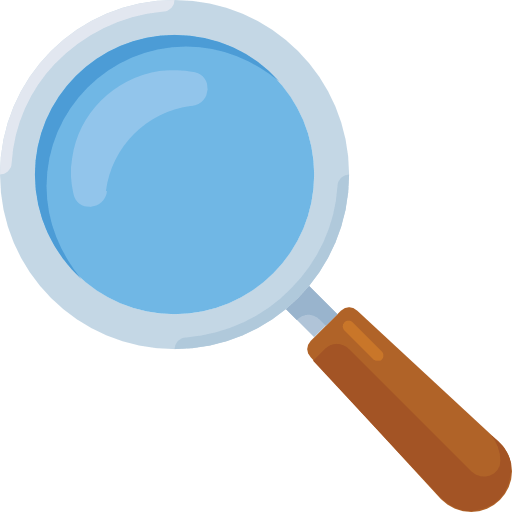
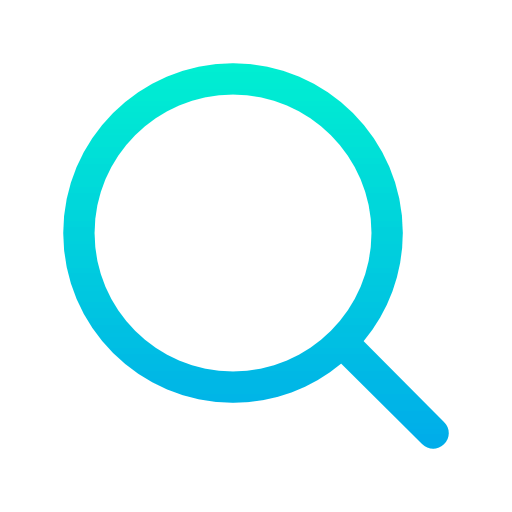
design changes

diff --git a/src/App.js b/src/App.js
@@ -7,10 +7,11 @@ import SearchBar from "./components/SearchBar";
 function App() {
   const [repos, setRepos] = useState([]);
   const [user, setUser] = useState({});
+  const [userSearch, setUserSearch] = useState("");
 
   const getGitHubData = () => {
     axios
-      .get("https://api.github.com/users/brijenmakwana/repos")
+      .get(`https://api.github.com/users/${userSearch}/repos`)
       .then(function (response) {
         // handle success
         console.log(response.data);
@@ -27,7 +28,7 @@ function App() {
 
   const getUser = () => {
     axios
-      .get("https://api.github.com/users/brijenmakwana")
+      .get(`https://api.github.com/users/${userSearch}`)
       .then(function (response) {
         // handle success
         console.log(response.data);
@@ -42,39 +43,51 @@ function App() {
       });
   };
 
-  useEffect(() => {
-    // getUser();
-    // getGitHubData();
-  }, []);
+  const submitUserName = () => {
+    getUser();
+    getGitHubData();
+  };
 
   return (
     <div className="App">
-      <SearchBar />
-      <div className="github-user-container">
-        <img
-          src={user.avatar_url}
-          alt="user pic"
-          className="user-profile-image"
-        />
-        <h1 className="user-name">{user.name}</h1>
-        <h2 className="user-git-handle">{user.login}</h2>
-        <p className="user-bio">{user.bio}</p>
-        <div className="total-repos-container">
-          <span className="total-repos-text">{user.public_repos} repos</span>
-        </div>
-      </div>
-      <div className="repo-cards">
-        {repos &&
-          repos.map((item, index) => (
-            <RepoCard
-              repoName={item.name}
-              repoDescription={item.description}
-              repoCreatedDate={item.created_at}
-              repoLastUpdatedDate={item.pushed_at}
-              key={index}
+      <SearchBar
+        setUserSearch={setUserSearch}
+        userSearch={userSearch}
+        submitUserName={submitUserName}
+      />
+      {user && userSearch && (
+        <>
+          <div className="github-user-container">
+            <img
+              src={user.avatar_url}
+              alt="user pic"
+              className="user-profile-image"
             />
-          ))}
-      </div>
+            <h1 className="user-name">{user.name}</h1>
+            <h2 className="user-git-handle">@{user.login}</h2>
+            <p className="user-bio">{user.bio}</p>
+            <div className="total-repos-container">
+              <span className="total-repos-text">
+                {user.public_repos} repos
+              </span>
+            </div>
+          </div>
+          <div className="repo-cards">
+            {repos &&
+              repos.map((item, index) => (
+                <RepoCard
+                  repoName={item.name}
+                  repoDescription={item.description}
+                  repoCreatedDate={item.created_at}
+                  repoLastUpdatedDate={item.pushed_at}
+                  html_url={item.html_url}
+                  topics={item.topics}
+                  key={index}
+                />
+              ))}
+          </div>
+        </>
+      )}
     </div>
   );
 }

diff --git a/src/components/RepoCard.js b/src/components/RepoCard.js
@@ -3,29 +3,48 @@ import "./RepoCard.css";
 import moment from "moment";
 
 const RepoCard = (props) => {
-  const { repoName, repoDescription, repoCreatedDate, repoLastUpdatedDate } =
-    props;
+  const {
+    repoName,
+    repoDescription,
+    repoCreatedDate,
+    repoLastUpdatedDate,
+    html_url,
+    topics,
+  } = props;
   return (
-    <div className="card-container">
-      {/* total days spent */}
-      <div className="days-spent-container">
-        <span className="days-spent-text">
-          {moment(repoLastUpdatedDate).diff(moment(repoCreatedDate), "days") +
-            1}{" "}
-          days
+    <a href={html_url} target="blank">
+      <div className="card-container">
+        {/* total days spent */}
+
+        <div className="days-spent-container">
+          <span className="days-spent-text">
+            {moment(repoLastUpdatedDate).diff(moment(repoCreatedDate), "days") +
+              1}{" "}
+            days
+          </span>
+        </div>
+        {/* repo name */}
+        <h2 className="repo-name">{repoName}</h2>
+        {/* repo description */}
+        <p className="repo-description">
+          {repoDescription ?? "no description available"}
+        </p>
+        {/* repo created date */}
+        <span className="date-created">
+          {moment(repoCreatedDate).format("ll")}
         </span>
+        <div className="topics-container">
+          <h2 className="topics-heading">topics</h2>
+          <ul className="list">
+            {topics.map((topic, index) => (
+              <li key={index} className="topic-name">
+                {topic}
+              </li>
+            ))}
+          </ul>
+        </div>
       </div>
-      {/* repo name */}
-      <h2 className="repo-name">{repoName}</h2>
-      {/* repo description */}
-      <p className="repo-description">
-        {repoDescription ?? "no description available"}
-      </p>
-      {/* repo created date */}
-      <span className="date-created">
-        {moment(repoCreatedDate).format("ll")}
-      </span>
-    </div>
+    </a>
   );
 };
 

diff --git a/src/components/RepoCard.css b/src/components/RepoCard.css
@@ -1,37 +1,49 @@
+a {
+  text-decoration: none;
+  margin: 20px 30px;
+  height: fit-content;
+}
+
 .card-container {
   background-color: #fff;
-  max-width: 350px;
-  height: fit-content;
+  width: 350px;
   padding: 20px;
-  border-radius: 15px;
-  margin: 20px 30px;
+  border-radius: 10px;
+  transition: all 0.2s ease-in-out;
+}
+
+.card-container:hover {
+  transform: scale(1.1);
+  z-index: 2;
 }
 
 .repo-name {
   font-size: 25px;
   text-transform: capitalize;
   margin-top: 15px;
+  color: #80489c;
 }
 
 .repo-description {
   font-size: 18px;
   margin-top: 10px;
+  color: #000;
 }
 
 .date-created {
-  margin-top: 10px;
+  margin-top: 20px;
   display: block;
   margin-left: auto;
   font-weight: 600;
   font-size: 18px;
-  background-color: #fff;
+  background-color: #ffb3c6;
   border-radius: 15px;
   width: fit-content;
   padding: 5px 10px;
 }
 
 .days-spent-container {
-  background-color: aquamarine;
+  background-color: #06d6a0;
   position: absolute;
   padding: 10px;
   margin-top: -40px;
@@ -43,5 +55,23 @@
   font-size: 18px;
   font-weight: 600;
   text-transform: capitalize;
-  color: #434242;
+  color: #fff;
+}
+
+.topics-container {
+  display: none;
+}
+
+.topics-heading {
+  text-transform: capitalize;
+}
+
+.list {
+  list-style-type: disc;
+  margin-left: 10px;
+  margin-top: 10px;
+}
+
+.topic-name {
+  font-size: 18px;
 }

diff --git a/src/components/SearchBar.js b/src/components/SearchBar.js
@@ -1,19 +1,28 @@
 import React from "react";
 import "./SearchBar.css";
 
-export default function SearchBar() {
+export default function SearchBar(props) {
+  const { userSearch, setUserSearch, submitUserName } = props;
+
   return (
     <div className="searchbar-container">
-      <img
-        src={require("../assets/images/github.png")}
-        alt="github"
-        className="searchbar-image"
+      <input
+        type="text"
+        placeholder="GitHub username"
+        className="input"
+        value={userSearch}
+        onChange={(e) => setUserSearch(e.target.value)}
+        // onSubmit={(e) => {
+        //   e.preventDefault();
+        //   submitUserName();
+        // }}
       />
-      <input type="text" placeholder="GitHub username" className="input" />
+
       <img
         src={require("../assets/images/search.png")}
         alt="search"
-        className="searchbar-image"
+        className="searchbar-image search-btn"
+        onClick={submitUserName}
       />
     </div>
   );

diff --git a/src/App.css b/src/App.css
@@ -5,7 +5,11 @@
 }
 
 body {
-  background-image: linear-gradient(to right, #8de9d5, #32c4c0);
+  background-image: linear-gradient(
+    90deg,
+    hsla(295, 63%, 61%, 1) 0%,
+    hsla(355, 100%, 73%, 1) 100%
+  );
 }
 
 .App {
@@ -16,7 +20,7 @@ body {
   display: flex;
   flex-direction: column;
   align-items: center;
-  margin-top: 20px;
+  margin-top: 30px;
 }
 
 .user-profile-image {
@@ -28,19 +32,24 @@ body {
 .user-name {
   margin-top: 10px;
   font-size: 35px;
+  color: #000;
 }
 
 .user-git-handle {
   margin-top: 10px;
   font-size: 25px;
-  color: #434242;
+  color: #fff;
 }
 
 .user-bio {
-  width: 500px;
-  padding: 20px;
+  max-width: 500px;
+  width: fit-content;
+  margin-top: 15px;
+  padding: 15px;
   text-align: center;
   font-size: 18px;
+  background-color: #fff;
+  border-radius: 10px;
 }
 
 .total-repos-container {
@@ -48,6 +57,7 @@ body {
   padding: 10px;
   width: fit-content;
   border-radius: 10px;
+  margin-top: 15px;
 }
 
 .total-repos-text {

diff --git a/src/components/SearchBar.css b/src/components/SearchBar.css
@@ -1,6 +1,6 @@
 .searchbar-container {
   background-color: #fff;
-  padding: 15px;
+  padding: 10px 15px;
   width: 500px;
   margin-left: auto;
   margin-right: auto;
@@ -24,4 +24,13 @@
   outline: none;
   margin-left: 10px;
   flex: 1;
+  background-image: url("../assets/images/github.png");
+  background-size: contain;
+  background-repeat: no-repeat;
+  text-indent: 40px;
+  background-blend-mode: difference;
+}
+
+.search-btn:hover {
+  cursor: pointer;
 }
